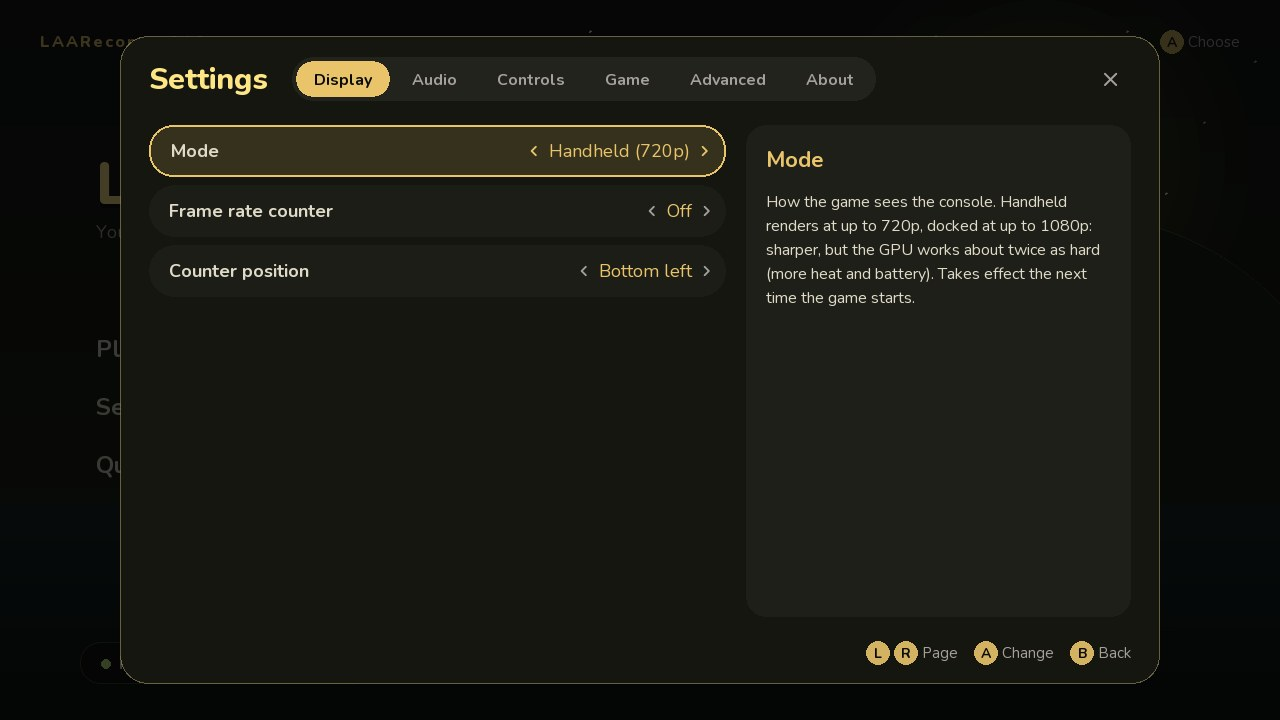
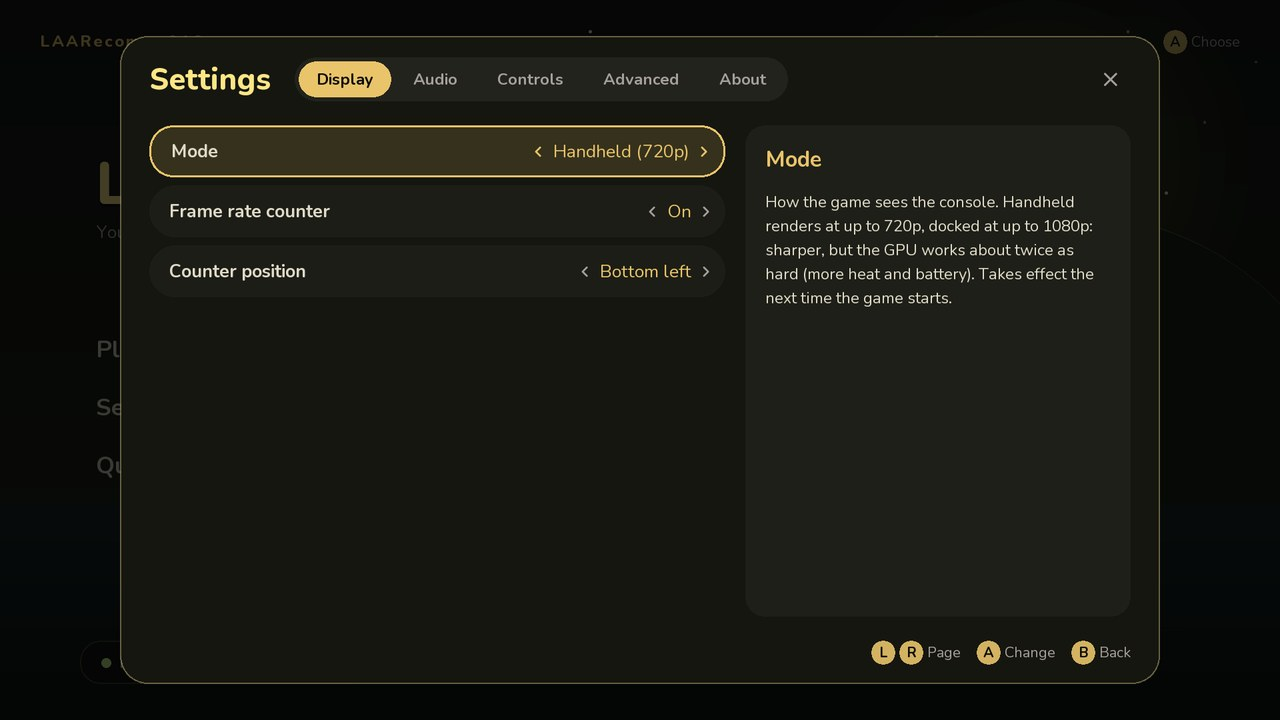
tools: Move device settings to a local config; remove Language setting

diff --git a/runtime/ui/ui.cpp b/runtime/ui/ui.cpp
@@ -45,7 +45,7 @@ struct Setting {
     const char *help;
 };
 
-const char *const kTabs[] = { "Display", "Audio", "Controls", "Game", "Advanced", "About" };
+const char *const kTabs[] = { "Display", "Audio", "Controls", "Advanced", "About" };
 
 #define NEXT_START " Takes effect the next time the game starts."
 
@@ -71,13 +71,6 @@ const std::vector<Setting> kSettings = {
       { { "Small", "2000" }, { "Normal", NULL }, { "Large", "8000" } }, 1,
       "How far a stick must move before it counts. Larger if Link drifts while you don't touch the stick, "
       "smaller for finer control." },
-    { "Game", "Language", "LAA_LANGUAGE",
-      { { "English (US)", NULL }, { "English (UK)", "en-GB" }, { "French", "fr" }, { "French (Canada)", "fr-CA" },
-        { "German", "de" }, { "Italian", "it" }, { "Spanish", "es" }, { "Spanish (Latin America)", "es-419" },
-        { "Dutch", "nl" }, { "Russian", "ru" }, { "Japanese", "ja" }, { "Korean", "ko" },
-        { "Chinese (Simplified)", "zh-Hans" }, { "Chinese (Traditional)", "zh-Hant" } }, 0,
-      "The language the console tells the game to use. Japanese, Korean and Chinese need the Switch's own fonts "
-      "in the app's fonts folder: the free font that stands in for them has only Latin and Cyrillic letters." NEXT_START },
     { "Advanced", "Fast core for the game", "LAA_NO_PIN", { { "On", NULL }, { "Off", "1" } }, 0,
       "Keeps the game's main thread on the phone's fastest CPU core and the other work off it. Smoother; turn it "
       "off only to compare." NEXT_START },

diff --git a/tools/thor/README.md b/tools/thor/README.md
@@ -1,13 +1,15 @@
 # tools/thor: testing on the AYN Thor
 
-Shell/Python helpers for test runs on the Thor over USB (Windows adb at
-`~/laar-build/android/win/platform-tools/adb.exe`, serial `<serial>`). Outputs go to
+Shell/Python helpers for test runs on the Thor over USB. Copy `local.sh.example` to `local.sh` (kept out of git) and
+set adb (on WSL the Windows `adb.exe`, the only one that sees USB devices), the device's serial when several are
+connected, and a local folder for files on their way to or from the device (`env/`, `transfer/`, `game/`, `apk/`; on
+a Windows drive when adb is `adb.exe`); `env.sh` reads it. Outputs go to
 `$LAA_OUT` (default `~/laar-build/thor-out`); image/video analysis uses `~/laar-build/venv`
 (Pillow, NumPy, OpenCV: `python3 -m venv ~/laar-build/venv && ~/laar-build/venv/bin/pip install pillow numpy opencv-python-headless`).
 
 Test runs write their own `env.txt` and use the test saves (`LAA_SAVE_DIR=files/testsave`, a copy of
 the player's saves in Mabe Village; `files/testsave2` is the beach with the sword). At the end they put back
-the player's own settings from `C:\Users\you\Documents\LAARecomp\env\laa_env_play.txt`.
+the player's own settings from `env/laa_env_play.txt` in that folder.
 
 | script | what it does |
 |---|---|
@@ -19,7 +21,7 @@ the player's own settings from `C:\Users\you\Documents\LAARecomp\env\laa_env_pla
 | `thor_perf.sh prefix frame secs` | simpleperf (frame pointers) over a window of a run |
 | `watch_play_env.sh tag [KEY=VAL...]` | the player plays: waits for the app, screenrecords in 3-min pieces, captures log.txt + logcat (it notices the app closing only between pieces) |
 | `guard_hunt.sh n [KEY=VAL...]` | repeat the beach script with LAA_SHADER_GUARD=1 until a shader reports hitting the translator's dispatch guard (which shader used to hang the GPU); a new kernel GPU hang's report is saved as guard<run>_dmesg.txt |
-| `ab_game.sh tag rounds libA libB` | two game libraries (files in Documents\LAARecomp\game) alternated A B A B on the village walk: CPU cycles in the game library and the runtime (simpleperf, clock-independent), the prime core's clock, frames over 20 ms; leaves B installed |
+| `ab_game.sh tag rounds libA libB` | two game libraries (files in the local folder's `game/`) alternated A B A B on the village walk: CPU cycles in the game library and the runtime (simpleperf, clock-independent), the prime core's clock, frames over 20 ms; leaves B installed |
 | `flicker.sh tag [KEY=VAL...]` | the grass walk east of the house, every frame 2600-2700 captured, flicker measured (`flicker_energy.py dir first last [sigma] [--panel]`; --panel: frames scaled to the 1920x1080 panel first, to compare 720p with 1080p) |
 | `menu_test.sh outdir [s]` | the menus without hands (LAA_UI_SCRIPT): start screen, settings, Play, the pause menu at 45 s, settings, Resume; menu frames as PNGs + a screencap at the end; test save; play env put back |
 | `background_test.sh prefix` | HOME in the middle of the game and back, twice: the game must stop while hidden and go on, on a new window surface, after (screencaps of the panel) |

diff --git a/README.md b/README.md
@@ -66,10 +66,9 @@ and the game's own dynamic resolution. Further into the game is still largely un
 - Handheld (720p) or docked (1080p) mode.
 - A start screen and a pause menu (the controller's Home/Mode button, Android's Back button):
 
-  ![Settings: display, audio, controls, game, advanced](docs/settings.jpg)
+  ![Settings: display, audio, controls, advanced](docs/settings.jpg)
 - Settings: mode, frame rate counter (and its corner), volume, button layout (as printed or swapped), stick dead
-  zone, the game's language (English, French, German, Italian, Spanish, Dutch, Russian, Japanese, Korean, Chinese),
-  and performance options. Most apply instantly, even from the pause menu.
+  zone and performance options. Most apply instantly, even from the pause menu.
 - Pressing Home suspends the game like a Switch does; coming back opens the pause menu.
 - The game's movies play through Android's own video decoder.
 - Shaders are compiled once and kept, so later sessions start without stutter.
